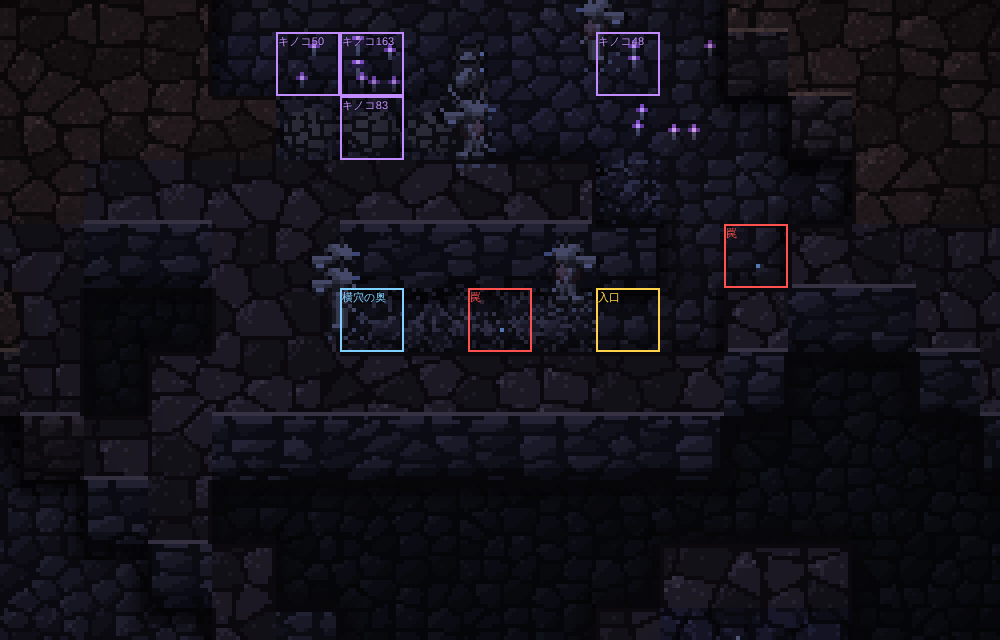
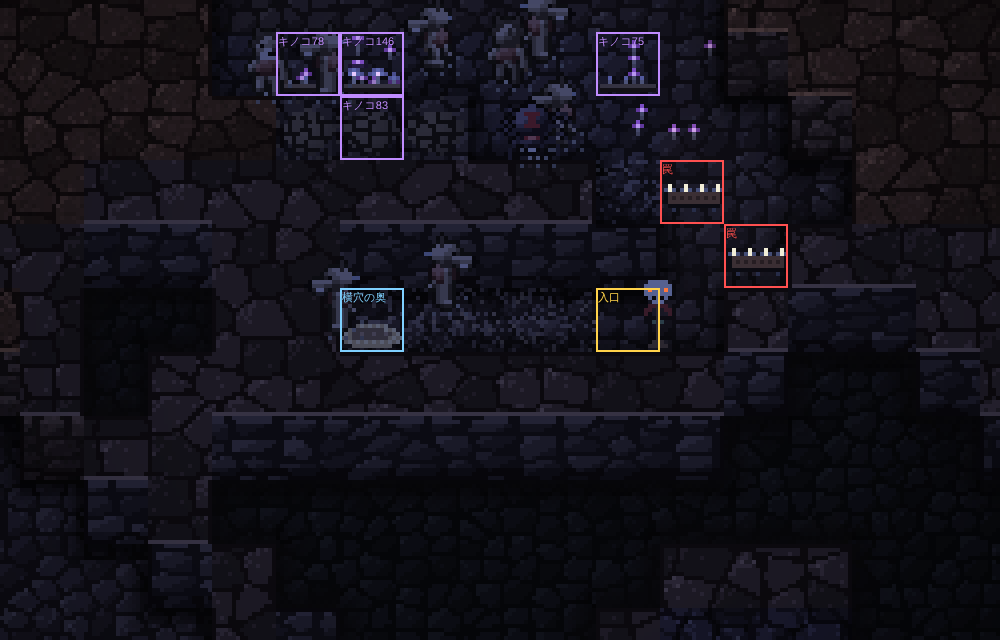
コボルトの住処の見た目を改善：罠・入口の飾り柱・寝床・キノコの畑・隠れている者の目
- 罠を青い点から、白い歯の並ぶ鉄の板の絵に。置き場所は横穴の中ではなく入口の外の床に
- 住処の入口の脇に骨の飾り柱、横穴の奥にわらの寝床を描く
- 畑のマス（farmTiles。シミュレーションと共通）に畝と植えたキノコを描く（育つと傘が光る）
- 隠れているコボルトは姿を見せず、暗がりで光る目だけを描く
- スクショを撮り直し（docs/img/）、docs/settling-20261104.md に追記

Claude-Session: https://claude.ai/code/session_01YYhjEXYgvKSsaiedYbF3R6

diff --git a/src/atlas.ts b/src/atlas.ts
@@ -34,6 +34,12 @@ export interface Atlas {
   web: number;
   burrow: number;
   anthill: number;
+  /** コボルトの住処：罠（鉄の歯の板）、入口の骨の飾り柱、奥の寝床（わら）、キノコの畑（0 芽、1 育った）、暗がりで光る目（コマ 0〜3、3 はまばたき） */
+  trap: number;
+  totem: number;
+  nest: number;
+  furrow: (grown: number) => number;
+  eyes: (f: number) => number;
   /** 宝の山（大きさ 0..2、きらめきのコマ） */
   treasure: (size: number, f: number) => number;
   wormSeg: (kind: number) => number;
@@ -137,6 +143,69 @@ function makeBurrow(): RawFrame {
     }
   return { W, H, px, mat, ax: 7, ay: 6 };
 }
+
+/**
+ * 文字の並びから小さな絵を作る（pal：文字 → [r,g,b, 光るなら1]）。ax, ay は足もと
+ */
+function pattern(rows: string[], pal: Record<string, number[]>, ax: number, ay: number): RawFrame {
+  const H = rows.length;
+  const W = rows[0].length;
+  const px = new Uint8ClampedArray(W * H * 4);
+  const mat: (string | null)[] = new Array(W * H).fill(null);
+  for (let y = 0; y < H; y++)
+    for (let x = 0; x < W; x++) {
+      const c = pal[rows[y][x]];
+      if (!c) continue;
+      const p = y * W + x;
+      px[p * 4] = c[0];
+      px[p * 4 + 1] = c[1];
+      px[p * 4 + 2] = c[2];
+      px[p * 4 + 3] = 255;
+      mat[p] = c[3] ? 'wisp' : 'ol';
+    }
+  return { W, H, px, mat, ax, ay };
+}
+
+// コボルトの罠：錆びた鉄の板に、光をはじく歯が並ぶ（暗い床でも歯のきらめきで見える）
+const TRAP = pattern(
+  ['.S...S...S...S.', 'sSs.sSs.sSs.sSs', 'kRRRRRRRRRRRRRk', 'kRrRrRrRrRrRrRk', 'kRRRRRRRRRRRRRk', '.kkkkkkkkkkkkk.', '..c....c....c..'],
+  { S: [240, 236, 214, 1], s: [176, 172, 160], k: [26, 20, 22], R: [176, 96, 44], r: [112, 58, 30], c: [96, 96, 104] },
+  7,
+  5,
+);
+// 住処の入口の飾り柱：骨のしゃれこうべと赤い布を下げた木の杭
+const TOTEM = pattern(
+  ['..bbbbb..', '.bbbbbbb.', '.bEbbbEb.', '.bbbbbbb.', '..bkbkb..', '...bbb...', '..rrwrr..', '.rr.w.rr.', '.r..w..r.', '....w....', '...gwg...', '....w....', '....w....', '....w....', '....w....', '...www...', '..wwwww..'],
+  { b: [228, 220, 198], E: [255, 120, 60, 1], k: [24, 18, 20], r: [184, 44, 38], w: [128, 86, 52], g: [104, 150, 86] },
+  4,
+  16,
+);
+// 奥の寝床：わらと毛皮を敷いた浅いくぼみ
+const NEST = pattern(
+  ['....yYyYyYyY....', '..yYfffffffYyY..', '.YyffFffFffFfyY.', 'yYyfffffffffyYyY', '.yYyYyYyYyYyYyY.', '...yyyyyyyyyy...'],
+  { y: [214, 178, 92], Y: [246, 216, 128], f: [140, 102, 68], F: [182, 140, 96] },
+  8,
+  4,
+);
+// キノコの畑：耕した畝に、植えたキノコが並ぶ（0 芽、1 育った傘。傘のふちがほのかに光る）
+const FURROW = [
+  pattern(
+    ['..............', '..p...p...p...', '..s...s...s...', 'LLLLLLLLLLLLLL', 'DDDDDDDDDDDDDD'],
+    { p: [214, 196, 236], s: [200, 186, 160], L: [150, 112, 74], D: [52, 34, 24] },
+    7,
+    4,
+  ),
+  pattern(
+    ['.cCc...cCc....', 'cCgCc.cCgCc.c.', '..s.....s..cCc', '..s.....s...s.', 'LLLLLLLLLLLLLL', 'DDDDDDDDDDDDDD'],
+    { c: [190, 170, 210], C: [236, 222, 248], g: [230, 200, 255, 1], s: [214, 200, 172], L: [150, 112, 74], D: [52, 34, 24] },
+    7,
+    5,
+  ),
+];
+// 暗がりで光る目（二つの点。3 コマ目はまばたき）
+const EYES = [0, 1, 2, 3].map((f) =>
+  pattern(f === 3 ? ['.....', '.k.k.', '.....'] : ['.....', '.E.E.', '.....'], { E: f === 1 ? [255, 236, 150, 1] : [255, 214, 110, 1], k: [70, 60, 40] }, 2, 1),
+);
 
 export function buildAtlas(): Atlas {
   const raws: RawFrame[] = [];
@@ -491,6 +560,20 @@ export function buildAtlas(): Atlas {
   raws.push(makeWeb());
   const burrow = raws.length;
   raws.push(makeBurrow());
+  const trapFrame = raws.length;
+  raws.push(TRAP);
+  const totemFrame = raws.length;
+  raws.push(TOTEM);
+  const nestFrame = raws.length;
+  raws.push(NEST);
+  const furrowFrames = FURROW.map((f) => {
+    raws.push(f);
+    return raws.length - 1;
+  });
+  const eyeFrames = EYES.map((e) => {
+    raws.push(e);
+    return raws.length - 1;
+  });
 
   // 棚詰め
   // 高さの順に棚へ詰める（コマの番号はそのまま）
@@ -537,6 +620,11 @@ export function buildAtlas(): Atlas {
     burrow,
     index: (s, d, a, f, b = 0) => keyIndex.get(`${s},${d},${a},${f & 3},${s === 0 ? b : 0}`) ?? 0,
     anthill: anthillFrame,
+    trap: trapFrame,
+    totem: totemFrame,
+    nest: nestFrame,
+    furrow: (g) => furrowFrames[g ? 1 : 0],
+    eyes: (f) => eyeFrames[f & 3],
     treasure: (size, f) => treasureFrames[size * 4 + (f & 3)],
     wormSeg: (kind) => segFrames[kind],
     breath: (down, f) => breathFrames[(down ? 4 : 0) + (f & 3)],

diff --git a/src/ecology.ts b/src/ecology.ts
@@ -8172,12 +8172,13 @@ export class Ecology {
   }
 
   /** 住処のそばの暗く湿った床（決まった数マスの畑）で、土の養分をキノコに移して育てる */
-  private farmFungus(wr: Warren): void {
+  /** 住処の畑のマス（住処のそばの決まった数マス：暗く、湿っているか横穴の中。最大3マス）。描画でも使う */
+  farmTiles(wr: Warren): number[] {
     const m = this.w.map;
     const hx = Math.floor(wr.x / TILE);
     const hy = Math.floor(wr.y / TILE);
-    let n = 0;
-    for (let i = 0; i < 24 && n < 3; i++) {
+    const out: number[] = [];
+    for (let i = 0; i < 24 && out.length < 3; i++) {
       const h = ih(wr.id, i, 230);
       const x = hx + (h % 9) - 4;
       const y = hy + ((h >>> 8) % 9) - 4;
@@ -8186,7 +8187,15 @@ export class Ecology {
       if (m.solid[k] || m.lava[k] || m.sealed[k] || this.w.water[k] > 30 || this.w.lightBase[k] > 100) continue;
       // 掘った横穴の中と入口のまわりは、地中の湿り気がある扱い（湿り気の値は書き換えない）
       if (this.w.moist[k] < 40 && !this.underground(wr, k)) continue;
-      n++;
+      out.push(k);
+    }
+    return out;
+  }
+
+  /** 住処のそばの畑で、土の養分をキノコに移して育てる */
+  private farmFungus(wr: Warren): void {
+    const m = this.w.map;
+    for (const k of this.farmTiles(wr)) {
       if (this.w.fungus[k] >= 160) continue;
       let got = 0;
       for (const q of [k, k + 1, k - 1, k + m.w, k - m.w, k + 2, k - 2, k + 2 * m.w, k - 2 * m.w]) {
@@ -8242,7 +8251,7 @@ export class Ecology {
     return m.dug[k] === 1 && sq((k % m.w) * TILE + 8 - wr.x) + sq(Math.floor(k / m.w) * TILE + 8 - wr.y) < 6 * TILE * 6 * TILE;
   }
 
-  /** 住処の入口から2〜3マスの床に罠を仕掛ける */
+  /** 住処の入口から2〜3マスの、横穴の外の床に罠を仕掛ける */
   private placeTrap(wr: Warren): void {
     const m = this.w.map;
     const d = wr.door ?? -1;
@@ -8256,7 +8265,8 @@ export class Ecology {
       const r = Math.abs(x - dx0) + Math.abs(y - dy0);
       if (r < 2 || r > 3 || x < 1 || y < 1 || x >= m.w - 1 || y >= m.h - 1) continue;
       const k = y * m.w + x;
-      if (m.solid[k] || m.lava[k] || m.sealed[k] || this.w.water[k] > 20 || this.traps.some((t) => t.k === k)) continue;
+      // 横穴の中（掘ったマス）には置かず、入口の外の床に置く
+      if (m.solid[k] || m.lava[k] || m.sealed[k] || m.dug[k] || this.w.water[k] > 20 || this.traps.some((t) => t.k === k)) continue;
       this.traps.push({ id: this.nextId++, k, w: wr.id });
       return;
     }

diff --git a/src/creatureView.ts b/src/creatureView.ts
@@ -309,11 +309,34 @@ export class CreatureView {
 
     // 地面のもの（巣穴、クモの巣）
     for (const b of eco.burrows) if (inView(b.x, b.y, 16)) pushSprite(b.x, b.y, 0, false, A.burrow, 0, 2);
-    // コボルトの罠：小さな印
-    for (const t of eco.traps) {
-      const tx = (t.k % eco.mapW) * 16 + 8;
-      const ty = Math.floor(t.k / eco.mapW) * 16 + 10;
-      if (inView(tx, ty, 16)) pushSprite(tx, ty, 0, false, A.speck(3, 3), 0, 2);
+    // コボルトの住処：畑の畝、奥の寝床、入口の飾り柱、罠
+    for (const wr of eco.warrens) {
+      if (wr.id < 0 || !inView(wr.x, wr.y, 96)) continue;
+      const mw = eco.mapW;
+      for (const k of eco.farmTiles(wr)) pushSprite((k % mw) * 16 + 8, Math.floor(k / mw) * 16 + 14, 0, false, A.furrow(eco.w.fungus[k] >= 80 ? 1 : 0), 0, 2);
+      pushSprite(wr.x, wr.y + 5, 0, false, A.nest, 0, 2);
+      const d = wr.door ?? -1;
+      // 横穴の入口の脇（横穴と反対の側の、床の上）に飾り柱を立てる
+      if (d >= 0) {
+        const dx0 = (d % mw) * 16 + 8;
+        const dy0 = Math.floor(d / mw) * 16 + 8;
+        const vx = wr.x - dx0;
+        const vy = wr.y - dy0;
+        const ox = vx > 8 ? -7 : vx < -8 ? 7 : Math.abs(vy) > 8 ? 7 : 7;
+        const oy = vy > 8 ? -3 : vy < -8 ? 3 : 0;
+        pushSprite(dx0 + ox, dy0 + 6 + oy, 0, false, A.totem, 0, 0);
+      }
+    }
+    for (const tr of eco.traps) {
+      const tx = (tr.k % eco.mapW) * 16 + 8;
+      const ty = Math.floor(tr.k / eco.mapW) * 16 + 11;
+      if (inView(tx, ty, 16)) pushSprite(tx, ty, 0, false, A.trap, 0, 2);
+    }
+    // 隠れているコボルト：姿は見せず、暗がりで目だけが光る（ときどきまばたき）
+    for (const c of eco.list) {
+      if (c.k !== Kind.Kobold || !eco.isHidden(c) || !inView(c.x, c.y, 16)) continue;
+      const ph = Math.floor(t * 2 + c.id * 0.37) % 7;
+      pushSprite(c.x, c.y - 7, 0, false, A.eyes(ph === 6 ? 3 : ph & 1), 0, 0);
     }
     for (const w of eco.webs) if (inView(w.x, w.y, 24)) pushSprite(w.x, w.y, 0, false, A.web, 0, 2);
     for (const c of eco.colonies) if (inView(c.x, c.y, 24)) pushSprite(c.x, c.y + 4, 0, false, A.anthill, 0, 2);

diff --git a/docs/settling-20261104.md b/docs/settling-20261104.md
@@ -78,3 +78,15 @@
 4. **キノコの畑は見えるが控えめ**：育ったキノコは紫の小さな光の点として見える。この場面では、畑は横穴の中ではなく、横穴の脇の開いた床（湿り気の足りる所）にできていた。「畑らしさ」（並んだキノコ、耕した土）はない。
 5. **隠れている者は描かれないので、隠れていること自体が分からない**：住処の奥には何も描かれず、見る人には「誰もいない」ように見える。気配の手がかり（暗がりの目の光など）を出すかどうか相談したい。
 6. 横穴の上にある「I」の形は、眠っているコボルトの眠りの印（Z）だった。
+
+## 見た目の改善（このあとに入れたもの）
+
+上の「気になった所」を受けて直した。スクショは docs/img/kobold-den.png、kobold-hide.png（と -marked.png）を撮り直した。
+
+1. **罠**：錆びた鉄の板に白い歯が並ぶ絵にした（15×7画素。歯の先は光をはじくので、暗い床でも見える）。前の青い点は1〜2画素だった。
+2. **罠の置き場所**：横穴の中（掘ったマス）には置かず、入口の外の床（入口から2〜3マス）に置くようにした。シミュレーションの変更なので、罠を踏む回数は変わりうる（かしたれ20日では0回。8シードでは測り直していない）。
+3. **横穴の目印**：入口の脇（横穴と反対の側）に、しゃれこうべと赤い布を下げた木の杭を立てる。横穴の奥（住処の中心）には、わらと毛皮の寝床を描く。暗い所では青みがかって見えるが、形で分かる。
+4. **キノコの畑**：畑のマス（住処のそばの決まった3マスまで。シミュレーションと同じ `farmTiles` で決まる）に、耕した畝と植えたキノコの列を描く。キノコが育つ（80以上）と、ふちがほのかに光る傘になる。
+5. **隠れている者**：姿は描かず、暗がりで光る二つの目だけを描く（ときどきまばたきする）。道中で身をひそめて待っている群れも同じ。
+
+どれも描画だけで、保存する状態は増やしていない。決定性と四つの帳簿は保たれている（`npm test` 21項目 OK、かしたれ20日で帳簿のずれ0）。

diff --git a/README.md b/README.md
@@ -571,3 +571,5 @@ URLに `?debug=albedo` を付けると、光と影を外して地形の絵その
 - コボルト：自然の口から4〜6匹の群れで来る。口から住処へ向かう道中は、冒険者が8マス以内にいる間その場で身をひそめて待ち（すぐそばまで来られない限り気づかれず、描かれない）、10マスより離れたら進む。住む場所は、口からの道筋で人の気配の濃いマスが多いほど避ける。1匹になっても地上の1日は新しく来る仲間を待ち、それでも1匹なら住処を捨てる。掘った横穴の中と入口から2マスは、キノコの畑を作るときに地中の湿り気がある扱いにする（湿り気の値は変えない）。子は蓄えが目安の3割以上あれば産む。
 - 大ネズミ：巣穴のまわり（10マス）の食べられる苔が一匹あたり150に満たなくなったら、歩いて行ける（道のり120マスまで）苔の豊かな所へ群れごと巣穴を移す（地上の1/4日に一度まで試す。外へ出ていく前にもまず試す）。外へ出ていくのは、飢え死にする前に歩いて着ける開いた地表の横穴があるとき（道のり150マスまで）。道すがら苔を食べ、飢えが7割まで進んだら出ていくのをやめて近くで探す。深い水に取り残されたら泳いで抜け出せる（以前は増水した水の中で動けずに飢えていた）。
 - 結果は docs/settling-20261104.md。
+
+- 見た目：罠は白い歯が並ぶ鉄の板（横穴の外、入口から2〜3マスの床に置く）。住処の入口の脇に骨の飾り柱、奥にわらの寝床、畑のマスに畝と植えたキノコ（育つと傘のふちが光る）を描く。隠れているコボルトは姿を見せず、暗がりで目だけが光る。
